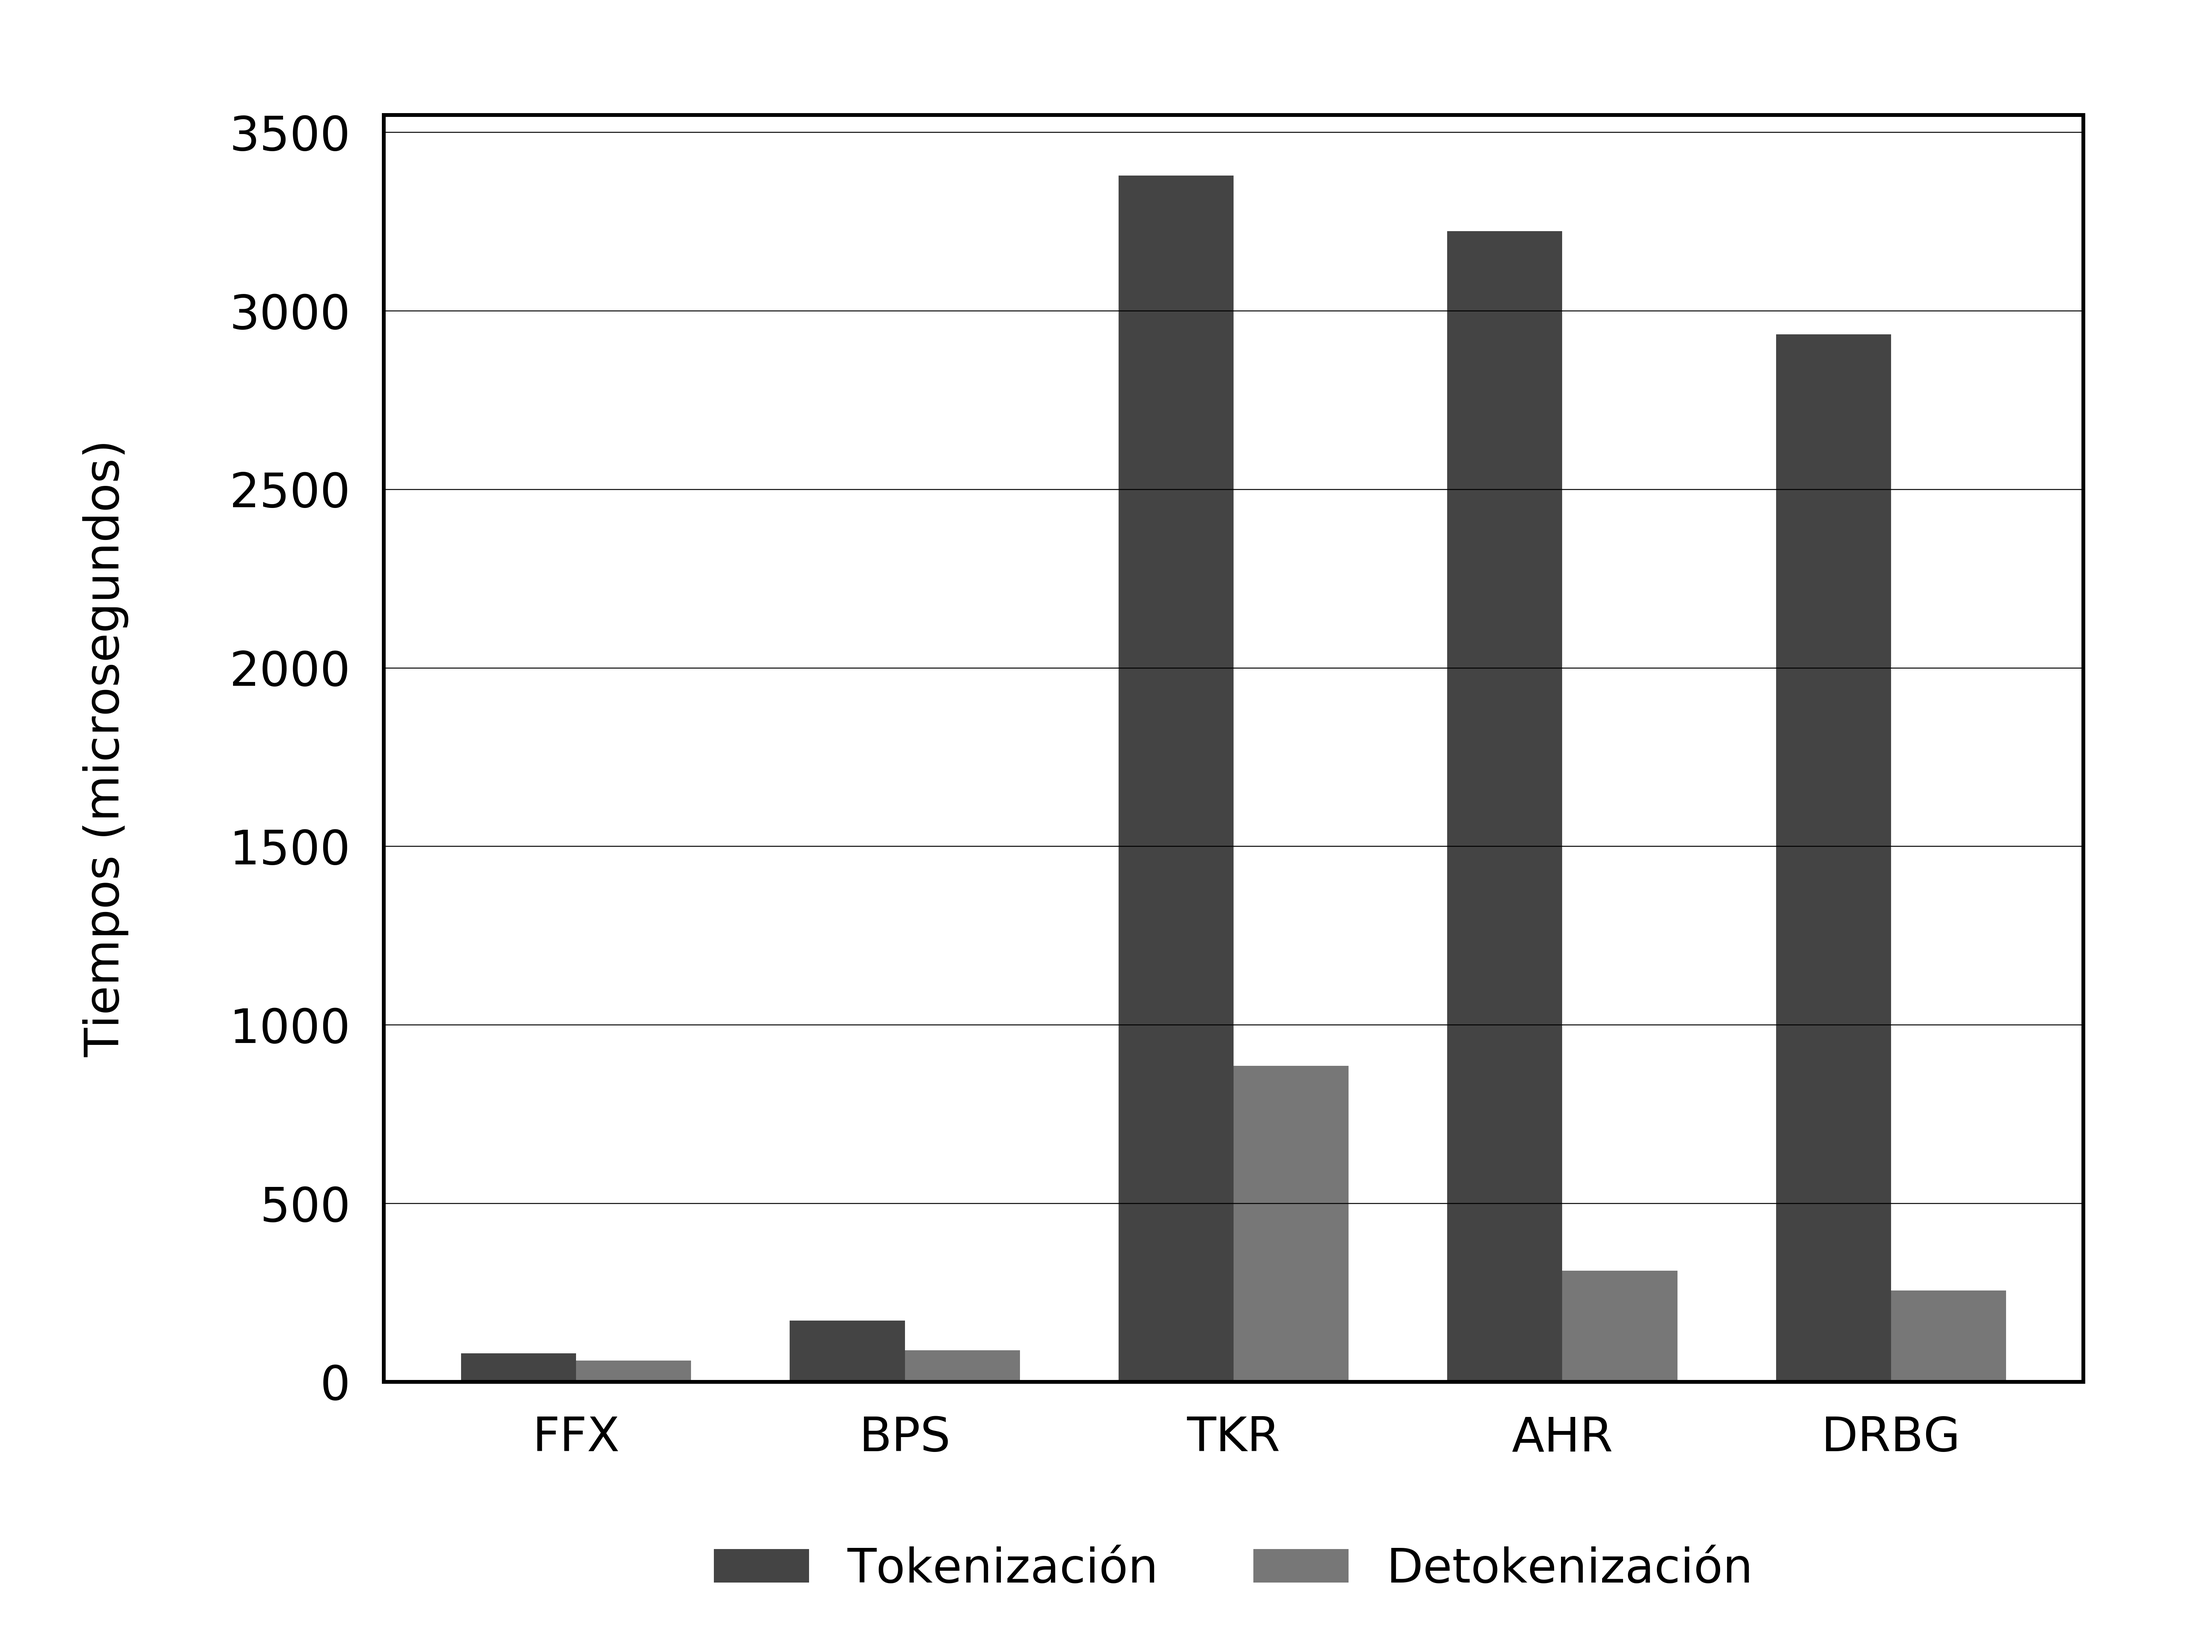
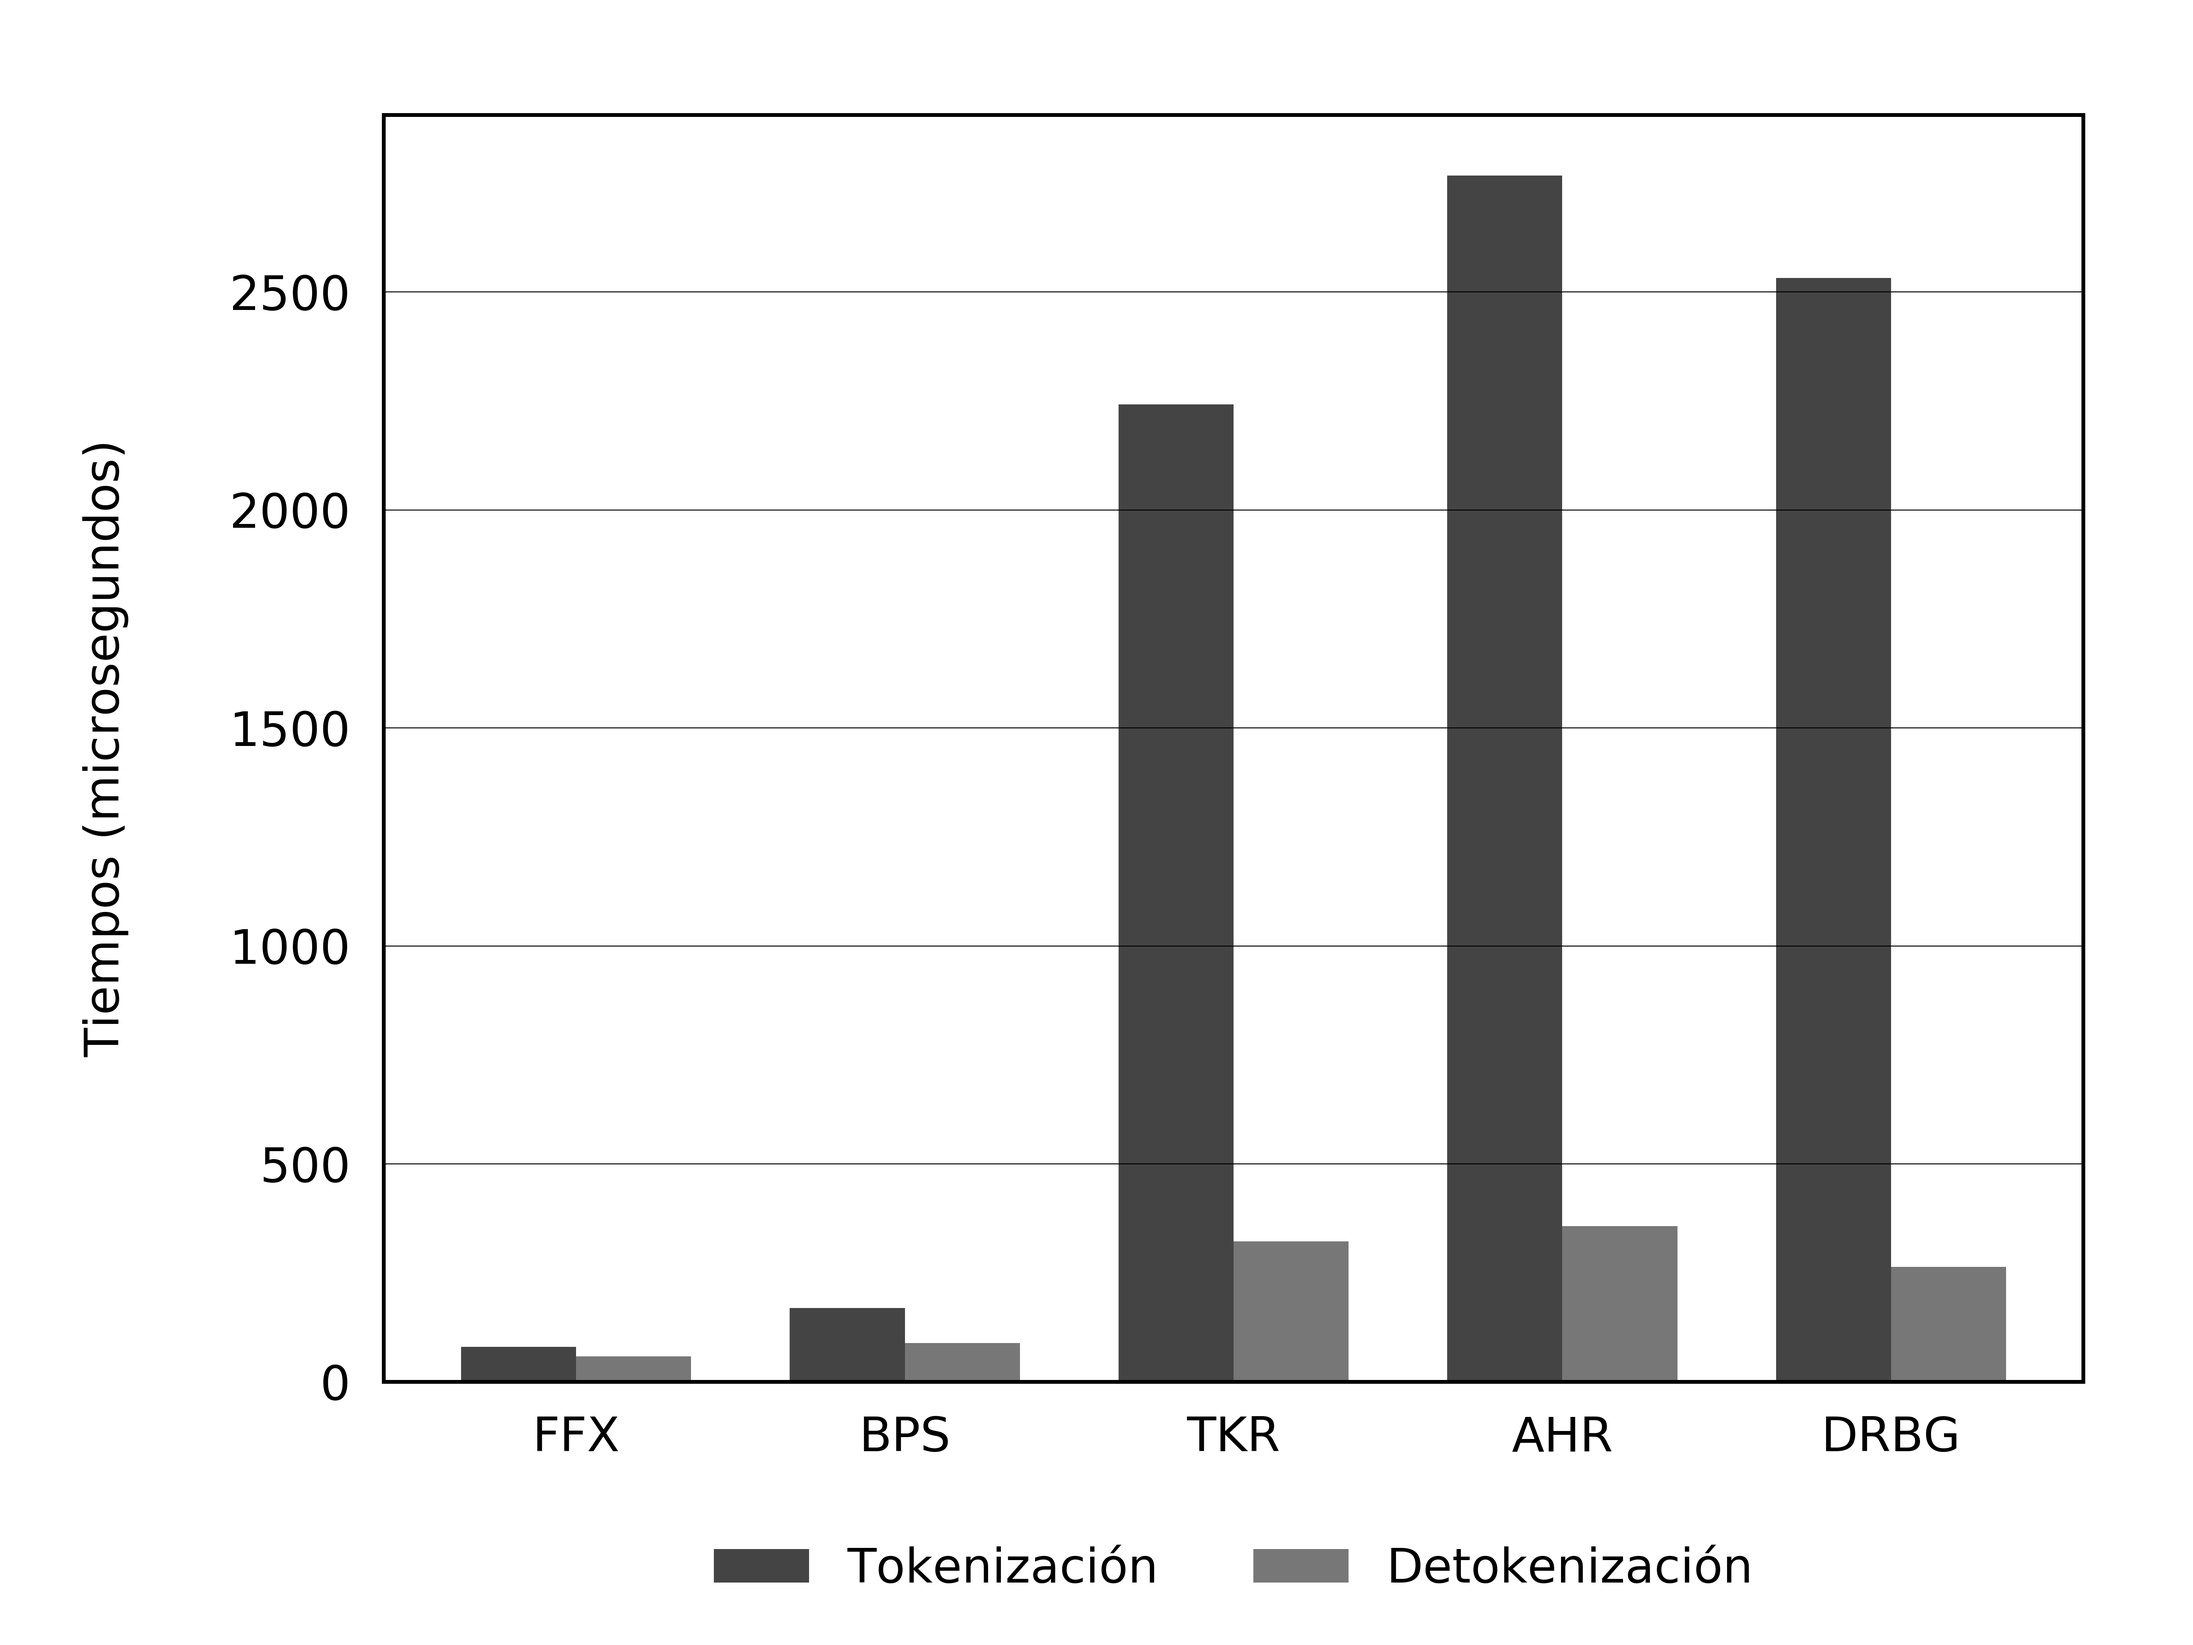
Optimización a FFX
Desde que lo escribí, puse un todo con esto, y hasta ahorita se me ocurrió
hacerlo. Se saca de la función de ronda la inicialización del arreglo de entrada
a CBCMAC (es el mismo para todas las llamadas). No parece haber ninguna
diferencia perceptible en los tiempos, pero mi conciencia está más tranquila.

Esto es parte de #79.

diff --git a/implementaciones/reportes/tiempos_unitarios.tex b/implementaciones/reportes/tiempos_unitarios.tex
@@ -1,5 +1,5 @@
-FFX & 80 & 59 \\\hline 
-BPS & 172 & 88 \\\hline 
-TKR & 3379 & 885 \\\hline 
-AHR & 3223 & 311 \\\hline 
-DRBG & 2934 & 256 \\\hline 
+FFX & 80 & 58 \\\hline 
+BPS & 169 & 89 \\\hline 
+TKR & 2242 & 322 \\\hline 
+AHR & 2767 & 357 \\\hline 
+DRBG & 2532 & 264 \\\hline 
